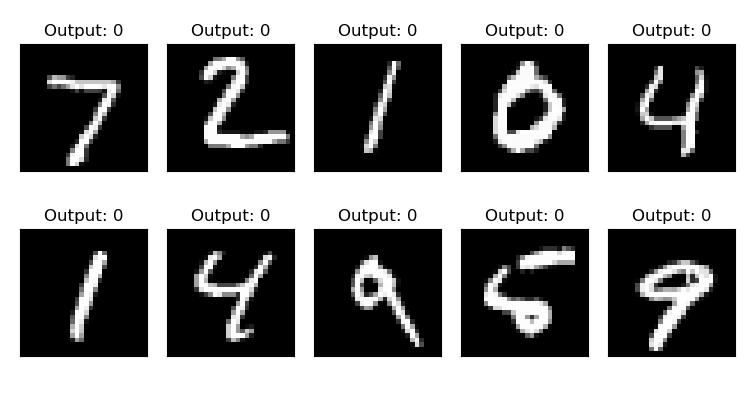
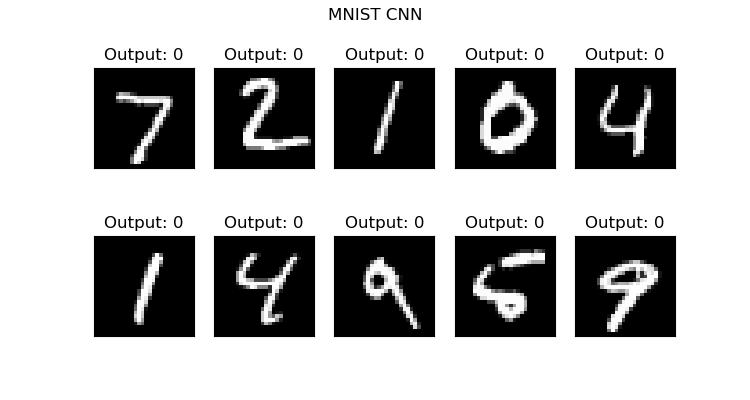
Add title to MNIST plot

diff --git a/examples/mnist.py b/examples/mnist.py
@@ -42,6 +42,7 @@ for i in range(num_row * num_col):
     ax.set_yticks([])
     ax.set_xticklabels([])
     ax.set_yticklabels([])
-plt.tight_layout()
+
+plt.suptitle("MNIST CNN")
 plt.savefig("./examples/plots/mnist-grid.jpg")
 plt.show()
